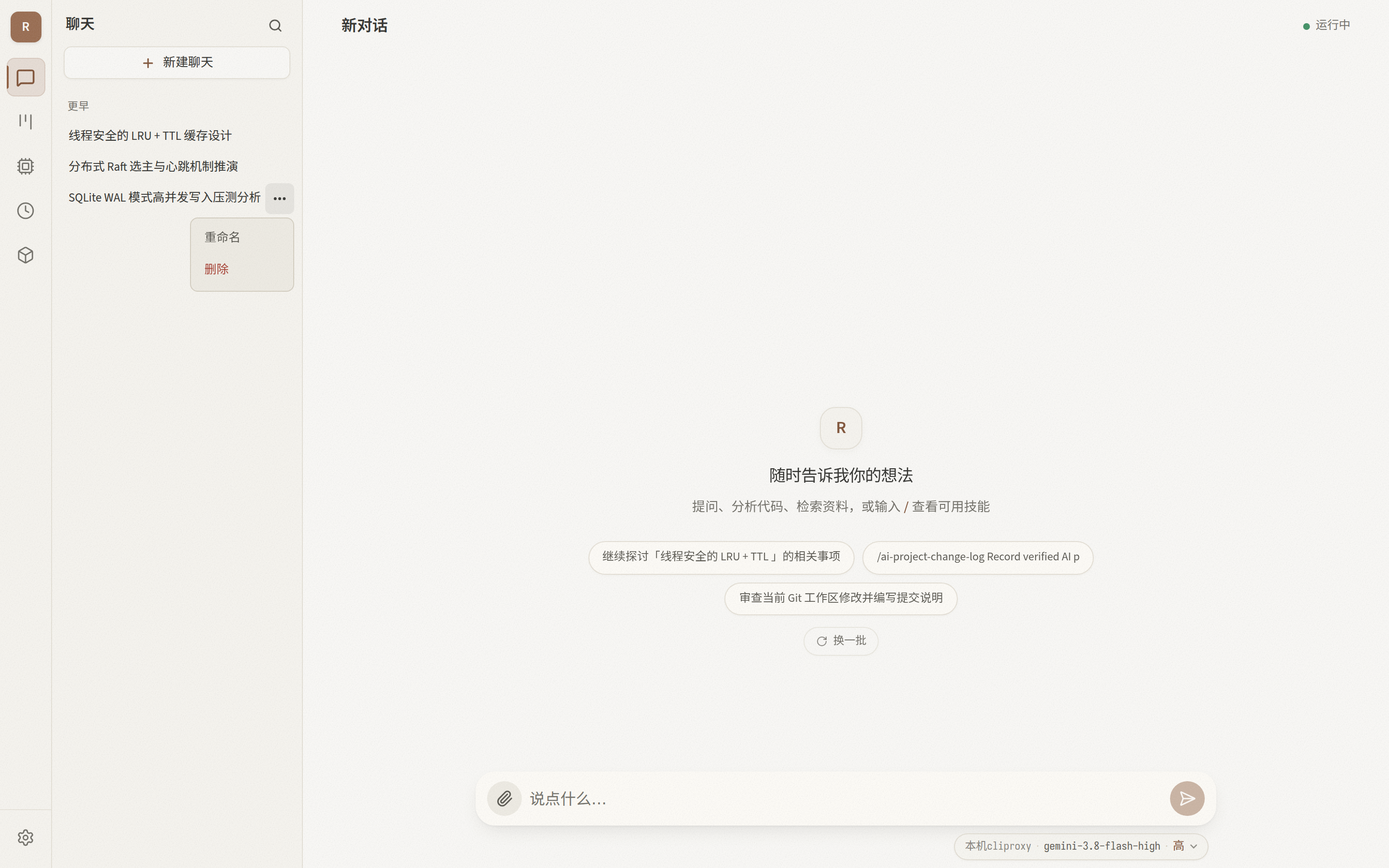
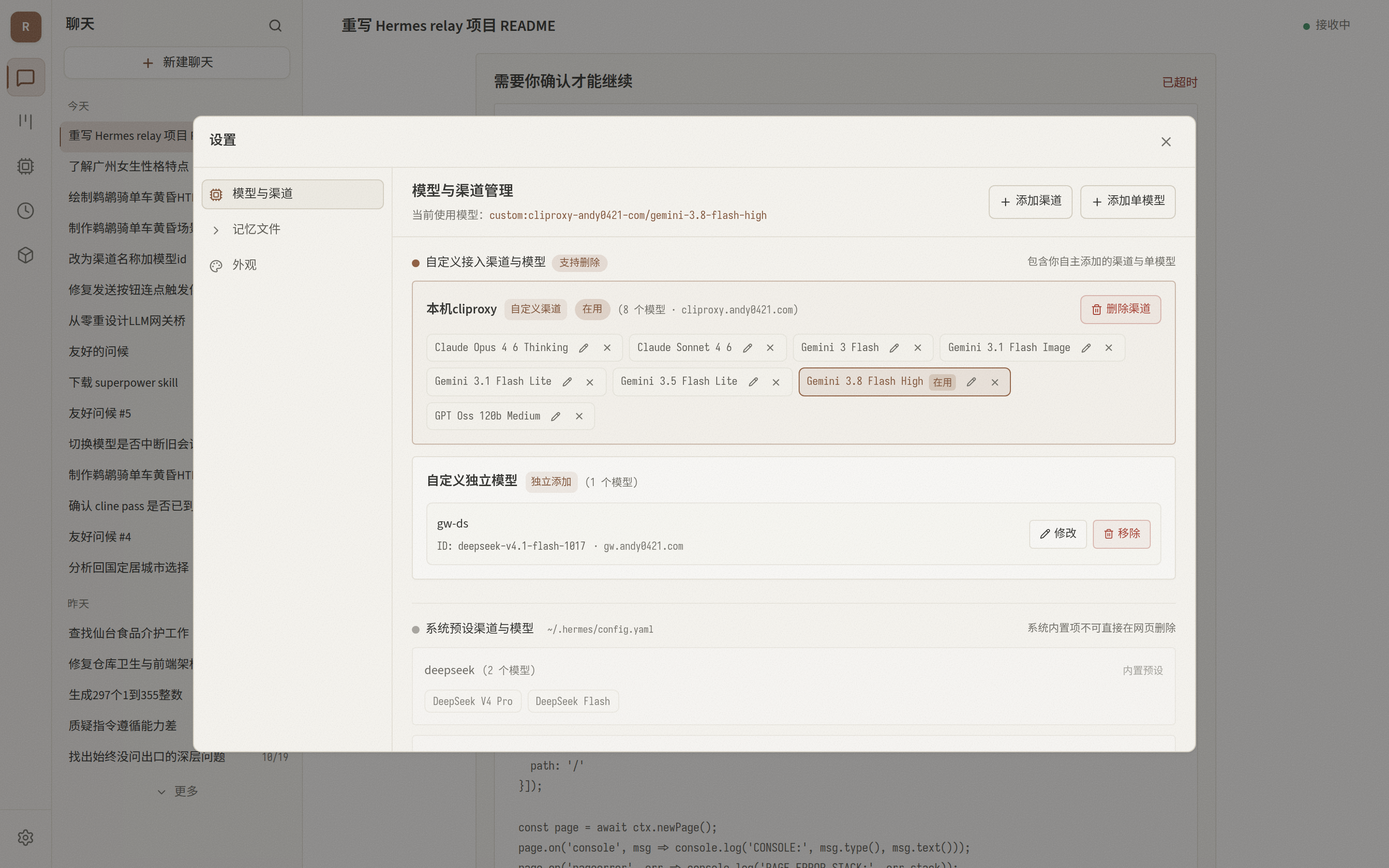
fix: add array guard for filter calls and update settings screenshot

diff --git a/web/hooks/use-sessions.ts b/web/hooks/use-sessions.ts
@@ -78,7 +78,8 @@ export function useSessions() {
     // 不会把用户点开的「更多」又缩回 10 条。
     const limit = q ? SEARCH_LIMIT : listLimitRef.current
     try {
-      const { chats: list } = await api.listChats(q || undefined, { limit })
+      const res = await api.listChats(q || undefined, { limit })
+      const list = Array.isArray(res?.chats) ? res.chats : []
       setChats(list)
       // 同步给 ref：下面可能马上要按「是不是今天的会话」决定拉几个回合，
       // 而 setChats 要等下一次渲染才生效，别读到空的列表。
@@ -97,7 +98,8 @@ export function useSessions() {
     setLoadingMoreChats(true)
     const next = listLimitRef.current + LIST_MORE
     try {
-      const { chats: list } = await api.listChats(queryRef.current || undefined, { limit: next })
+      const res = await api.listChats(queryRef.current || undefined, { limit: next })
+      const list = Array.isArray(res?.chats) ? res.chats : []
       setChats(list)
       chatsRef.current = list
       listLimitRef.current = next
@@ -272,7 +274,7 @@ export function useSessions() {
       if (id === current) return
       // 离开时把「点了新对话但一个字没发」的草稿从内存列表里去掉：它本来就没落库
       //（后端懒创建），留在列表里会变成一条悬空的「未命名对话」。
-      setChats((cs) => cs.filter((c) => c.id === id || c.message_count > 0))
+      setChats((cs) => (cs || []).filter((c) => c.id === id || c.message_count > 0))
       viewRef.current = id
       setCurrent(id)
       await loadChat(id).catch(() => setMessages([]))
@@ -293,7 +295,7 @@ export function useSessions() {
         preview: '',
       },
       // 上一个还没发消息的草稿（连点两次「新对话」时）在这里被换掉，不留残影
-      ...c.filter((x) => x.message_count > 0),
+      ...(c || []).filter((x) => x.message_count > 0),
     ])
     viewRef.current = id
     setCurrent(id)

diff --git a/web/components/chat/cards.tsx b/web/components/chat/cards.tsx
@@ -151,15 +151,15 @@ export function ClarifyCard({
   const [picked, setPicked] = useState<Record<string, string[]>>({}) // qid → 选中的选项（已去掉推荐后缀）
   const [typed, setTyped] = useState<Record<string, string>>({}) // qid → 自己填的字
   // 多选的问题直接把「自己填」的输入框摊开（单选仍然收着，点「其他」才出来）
-  const multiCount = data.questions.filter((q) => q.multi_select).length
-  const allMulti = multiCount === data.questions.length && data.questions.length > 0
+  const multiCount = (data?.questions || []).filter((q) => q.multi_select).length
+  const allMulti = multiCount === (data?.questions || []).length && (data?.questions || []).length > 0
   // 一次只摆一个问题：几道题全铺开会把输入框顶出屏幕，答完这题再出下一题
   const [rawStep, setStep] = useState(0)
   // 同一张卡上题数不会变，但换下一张卡时实例是复用的，旧 step 可能越界 → 夹一下
-  const step = Math.min(rawStep, Math.max(0, data.questions.length - 1))
-  const last = step >= data.questions.length - 1
+  const step = Math.min(rawStep, Math.max(0, (data?.questions || []).length - 1))
+  const last = step >= (data?.questions || []).length - 1
   const [showOther, setShowOther] = useState<Record<string, boolean>>(() =>
-    Object.fromEntries(data.questions.filter((q) => q.multi_select).map((q) => [q.qid, true])),
+    Object.fromEntries((data?.questions || []).filter((q) => q.multi_select).map((q) => [q.qid, true])),
   )
 
   const valueOf = useCallback(

diff --git a/web/app/page.tsx b/web/app/page.tsx
@@ -141,14 +141,14 @@ export default function Page() {
     const list: string[] = []
 
     // 1. 基于最近对话的主题（如果有近期对话）
-    const recent = chats.filter((c) => c.title && !c.title.includes('新对话') && !c.title.includes('未命名'))
+    const recent = (chats || []).filter((c) => c?.title && !c.title.includes('新对话') && !c.title.includes('未命名'))
     if (recent.length > 0) {
       const topTitle = recent[suggestionSeed % recent.length].title
       list.push(`继续探讨「${topTitle.slice(0, 16)}」的相关事项`)
     }
 
     // 2. 基于实际安装的特色技能
-    const usefulSkills = skills.filter((s) => s.name && !s.name.startsWith('_'))
+    const usefulSkills = (skills || []).filter((s) => s?.name && !s.name.startsWith('_'))
     if (usefulSkills.length > 0) {
       const picked = usefulSkills[(suggestionSeed + 1) % usefulSkills.length]
       list.push(`/${picked.name} ${picked.description ? picked.description.slice(0, 20) : '执行该技能'}`)
@@ -459,7 +459,7 @@ export default function Page() {
     }))
     // 压缩记录只显示「窗口里够得着」的那条：比窗口最早那条消息还早的先不显示
     const oldest = messages.length ? (typeof messages[0].ts === 'number' ? messages[0].ts : 0) : Infinity
-    compactions
+    ;(compactions || [])
       .filter((rec) => messages.length > 0 && (typeof rec.at === 'number' ? rec.at : Infinity) >= oldest)
       .forEach((rec, i) => {
         const at = typeof rec.at === 'number' ? rec.at : Number.MAX_SAFE_INTEGER

diff --git a/web/hooks/use-relay-config.ts b/web/hooks/use-relay-config.ts
@@ -24,8 +24,11 @@ export function useRelayConfig() {
   const loadSkills = useCallback(() => {
     api
       .skills()
-      .then((r) => setSkills(r.skills))
-      .catch(() => notify('技能清单没取到，输入框的 / 菜单可能是空的'))
+      .then((r) => setSkills(Array.isArray(r?.skills) ? r.skills : []))
+      .catch(() => {
+        setSkills([])
+        notify('技能清单没取到，输入框的 / 菜单可能是空的')
+      })
   }, [])
 
   const loadConfig = useCallback(() => {

diff --git a/web/components/chat/composer.tsx b/web/components/chat/composer.tsx
@@ -138,7 +138,7 @@ export function Composer({
       if (fuzzyMatch(q, n)) return 2.8
       return 3
     }
-    const hit = skills.filter((s) => rank(s) < 3)
+    const hit = (skills || []).filter((s) => rank(s) < 3)
     hit.sort(
       (a, b) => rank(a) - rank(b) || (b.last_used || 0) - (a.last_used || 0) || a.name.localeCompare(b.name),
     )
